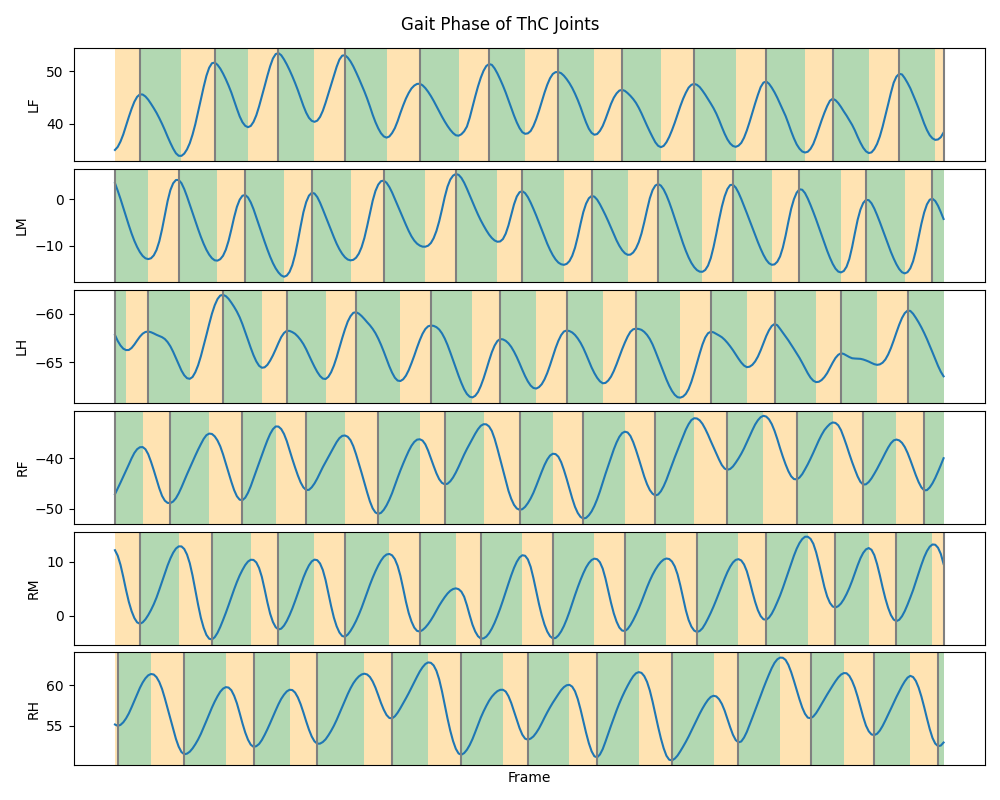
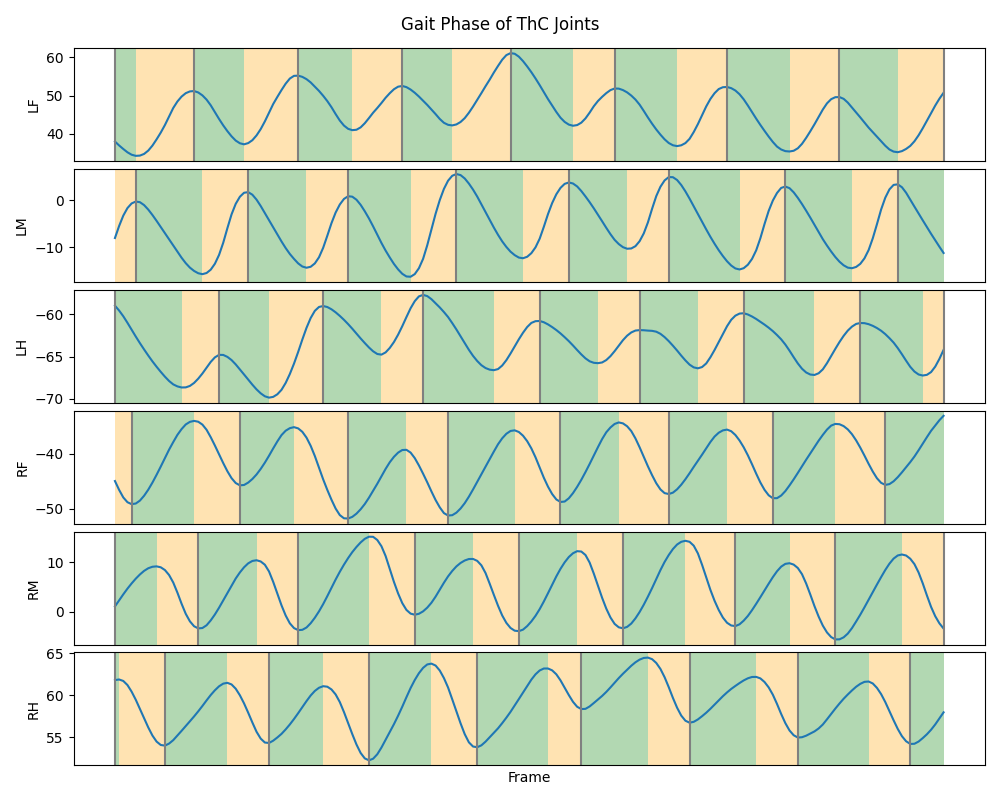
commit

diff --git a/expert_data_builder/gait_analysis/gait_analysis.py b/expert_data_builder/gait_analysis/gait_analysis.py
@@ -71,6 +71,7 @@ def plot_gait_phase(data, reverse=False):
         plt.axvline(x=i, color='grey')
     # stance phase: peak to valley, green
     # swing phase: valley to peak, orange
+    # begin with peak
     if peak_indices[0] < valley_indices[0]:
         for i in range(len(peak_indices)-1):
             plt.axvspan(peak_indices[i], valley_indices[i], facecolor='g', alpha=0.3)
@@ -112,19 +113,32 @@ def gait_generate(data, reverse=False):
     # generate gait phase 
     # if it is stance, append 1, if it is swing, append 0
     gait_phase = []
+    # begin with peak
     if peak_indices[0] < valley_indices[0]:
-        if peak_indices[-1] < valley_indices[-1]:
-            for i in range(len(peak_indices)-1):
-                gait_phase.extend([0]*(peak_indices[i]-valley_indices[i]))
-                gait_phase.extend([1]*(valley_indices[i+1]-peak_indices[i]))
-        if peak_indices[-1] < valley_indices[-1]:
+        # end with peak
+        if valley_indices[-1] < peak_indices[-1]:
+            for i in range(len(valley_indices)):
+                gait_phase.extend([1]*(valley_indices[i]-peak_indices[i]))
+                gait_phase.extend([0]*(peak_indices[i+1]-valley_indices[i]))
+        # end with valley
+        elif peak_indices[-1] < valley_indices[-1]:
+            for i in range(len(valley_indices)-1):
+                gait_phase.extend([1]*(valley_indices[i]-peak_indices[i]))
+                gait_phase.extend([0]*(peak_indices[i+1]-valley_indices[i]))
             gait_phase.extend([1]*(valley_indices[-1]-peak_indices[-1]))
-    else:
-        for i in range(len(valley_indices)-1):
-            gait_phase.extend([1]*(valley_indices[i]-peak_indices[i]))
-            gait_phase.extend([0]*(peak_indices[i+1]-valley_indices[i]))
-        if peak_indices[-1] > valley_indices[-1]:
-            gait_phase.extend([0]*(peak_indices[-1]-valley_indices[-1]))
+    # begin with valley
+    elif valley_indices[0] < peak_indices[0]:
+        # end with valley
+        if peak_indices[-1] < valley_indices[-1]:
+            for i in range(len(peak_indices)):
+                gait_phase.extend([1]*(peak_indices[i]-valley_indices[i]))
+                gait_phase.extend([0]*(valley_indices[i+1]-peak_indices[i]))
+        # end with peak
+        elif valley_indices[-1] < peak_indices[-1]:
+            for i in range(len(peak_indices)-1):
+                gait_phase.extend([1]*(peak_indices[i]-valley_indices[i]))
+                gait_phase.extend([0]*(valley_indices[i+1]-peak_indices[i]))
+            gait_phase.extend([1]*(peak_indices[-1]-valley_indices[-1]))
     return gait_phase
 
 # temperary test for c21-0680 data
@@ -138,18 +152,21 @@ joint_movement = joint_movement.values
 joint_movement = data_smooth(joint_movement)
 
 # generate gait phase for ThC joints
+joint_movement = joint_movement[100:400,:]
 reverse_list_ThC = [False, False, False, True, True, True]
 reverse_list_FTi = [True, False, True, False, True, False]
-gait_phase_ThC = np.zeros((300,6))
+gait_phase_ThC = np.zeros((299,6))
 for i in range(6):
-    gait_phase_ThC[:,i] = gait_generate(joint_movement[100:400,i], reverse=reverse_list_ThC)
+    gait_phase_ThC[:,i] = gait_generate(joint_movement[:,i], reverse=reverse_list_ThC[i])
 # generate gait phase for FTi joints
-gait_phase_FTi = np.zeros((300,6))
+gait_phase_FTi = np.zeros((299,6))
 for i in range(6):
-    gait_phase_FTi[:,i] = gait_generate(joint_movement[100:400,i+6], reverse=reverse_list_FTi)
+    gait_phase_FTi[:,i] = gait_generate(joint_movement[:,i+6], reverse=reverse_list_FTi[i])
 gait_phase = np.concatenate((gait_phase_ThC, gait_phase_FTi), axis=1)
-save_path = os.path.join(fold_path, 'gait_analysis', cricket_number, f'PIC{video_number}_gait_phase_ThC.csv')
-pd.DataFrame(gait_phase).to_csv(save_path, header=None, index=None)
+save_path = os.path.join(fold_path, 'gait_analysis', f'PIC{video_number}_gait_phase.csv')
+pd.DataFrame(gait_phase).to_csv(save_path, 
+                                header=["ThC_LF","ThC_LM","ThC_LH","ThC_RF","ThC_RM","ThC_RH", 
+                                        "FTi_LF","FTi_LM","FTi_LH","FTi_RF","FTi_RM", "FTi_RH"], index=None)
 
 # subplot for ThC joints
 joint_movement = joint_movement[100:400,:]
